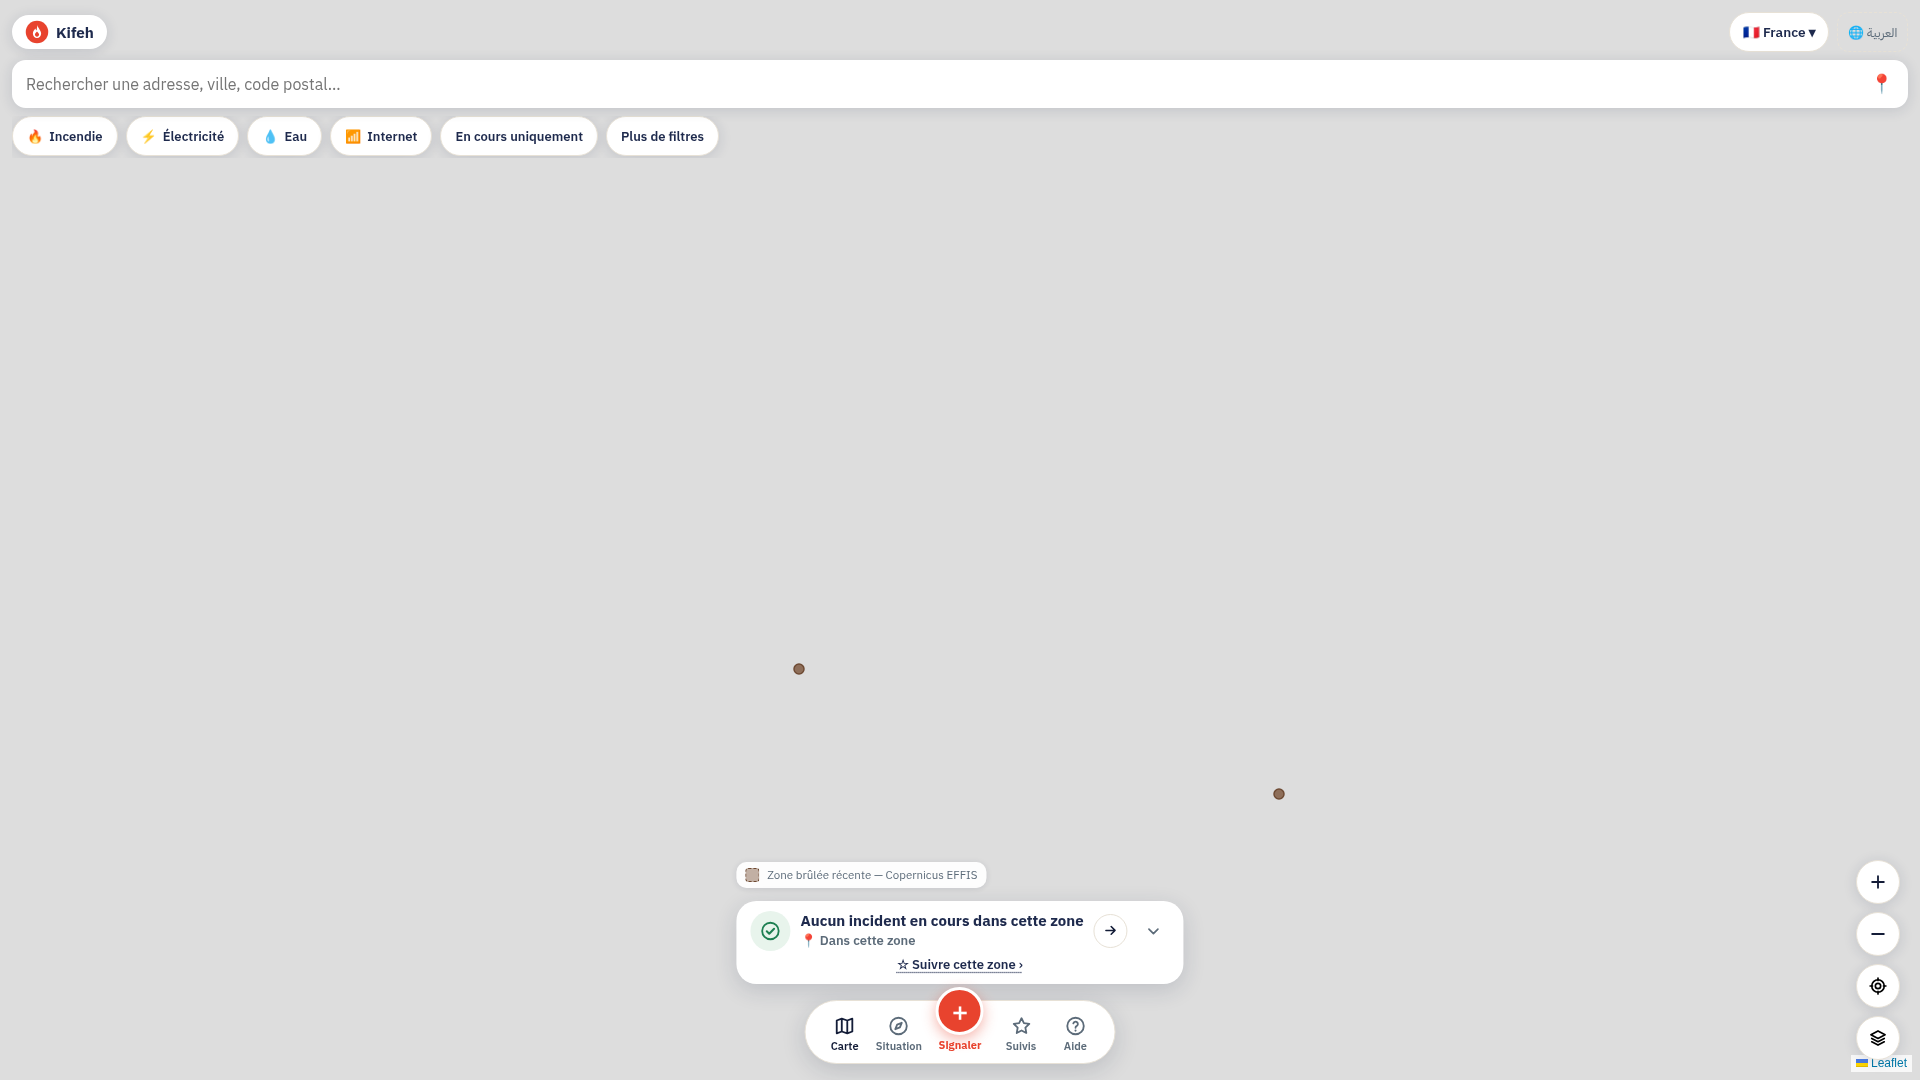
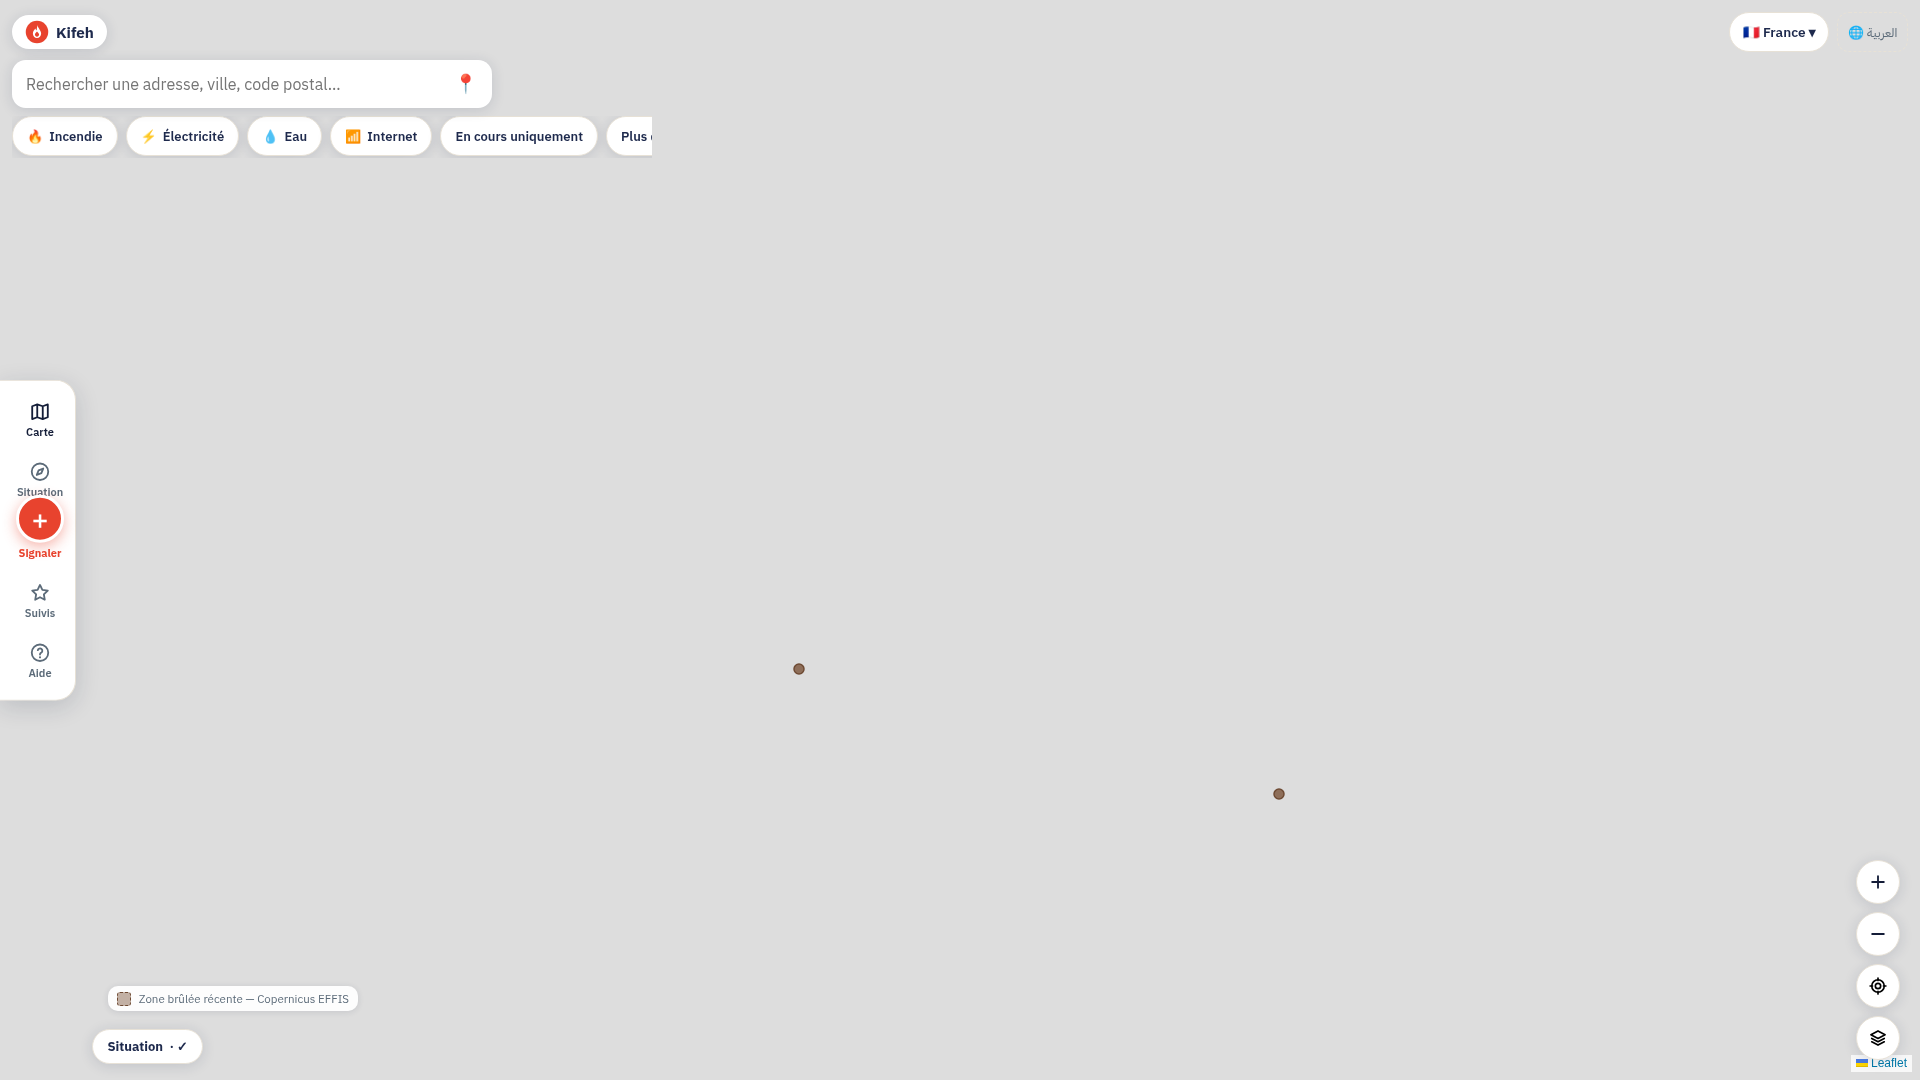
REFONTE PR 2 (#101) — composition desktop ≥1200 px : rail vertical + recherche bornée + héro → puce compacte
Derrière fire_desktop_rail_enabled (coupure à chaud) :
- rail vertical gauche 76 px (droite en RTL) : Carte·Situation·Signaler
  (rouge central)·Suivis·Aide — la pilule basse desktop disparaît ;
- recherche BORNÉE à 480 px (cible master 420-520) ;
- la carte de situation permanente disparaît du desktop → puce compacte
  « Situation · état · fraîcheur » (bas côté rail, clic → panneau),
  alimentée par renderSummary ; légendes déplacées côté rail (zéro
  collision FABs) ;
- mobile/tablette (<1200 px) STRICTEMENT inchangés.
MESURÉ (outil d'audit, mêmes 12 vues) : carte visible 1280 74 %→84 %,
1440 78 %→86 %, 1920 86 %→92 %, RTL symétrique — cible ≥78 % dépassée
partout. features-browser 68/68 ; captures de marque 1280/1440 mises à
jour (raison : PR 2, portée desktop, mobile intact) ; docs/MAP_UX_CURRENT_
AUDIT.md consigne l'avant/après.

Claude-Session: https://claude.ai/code/session_01Xtj68HpNxhqV9w3jxL5u9R

diff --git a/public/css/app.css b/public/css/app.css
@@ -984,3 +984,44 @@ html, body { overscroll-behavior: none; }
 @media (max-width: 1099px) {
   .sheet.pos-half { max-height: 52dvh; }
 }
+
+/* ── REFONTE PR 2 : composition desktop ≥1200 px (drapeau rail-ok) ──────────
+   Rail vertical gauche (droite en RTL), header inchangé mais recherche
+   BORNÉE, carte héro permanente → puce compacte. Mobile/tablette intacts.
+   Rappel gravé : AUCUN enfant position:fixed sous un ancêtre transformé. */
+@media (min-width: 1200px) {
+  body.rail-ok .bottom-nav {
+    left: 0; right: auto; top: 50%; bottom: auto;
+    transform: translateY(-50%);
+    grid-template-columns: 1fr; grid-auto-rows: auto; align-items: center;
+    width: 76px; max-width: 76px; padding: .75rem .375rem;
+    border-radius: 0 var(--kifeh-radius-lg) var(--kifeh-radius-lg) 0;
+    border: 1px solid var(--kifeh-color-border); border-inline-start: none;
+    row-gap: .375rem;
+  }
+  html[dir="rtl"] body.rail-ok .bottom-nav {
+    left: auto; right: 0;
+    border-radius: var(--kifeh-radius-lg) 0 0 var(--kifeh-radius-lg);
+    border-inline-end: none;
+  }
+  body.rail-ok .bottom-nav .nav-item { padding: .5rem .25rem; }
+  /* Recherche bornée : jamais la pleine largeur (cible 420-520 px). */
+  body.rail-ok .home-top .searchbox { max-width: 480px; }
+  body.rail-ok .home-top .chips { max-width: 640px; }
+  /* Le héro permanent disparaît (les LÉGENDES de couches, elles, restent). */
+  body.rail-ok .home-bottom .counter { display: none; }
+  body.rail-ok .home-bottom { bottom: 3.5rem; max-width: 380px; left: 92px; right: auto; transform: none; align-items: flex-start; }
+  html[dir="rtl"] body.rail-ok .home-bottom { left: auto; right: 92px; }
+  /* …remplacé par la puce compacte, au-dessus du rail. */
+  body.rail-ok #situChip {
+    display: inline-flex; align-items: center; gap: .4rem;
+    position: fixed; z-index: 1100;
+    inset-inline-start: 92px; bottom: 1rem;
+    background: var(--kifeh-color-surface); color: var(--kifeh-color-text);
+    border: 1px solid var(--kifeh-color-border); border-radius: var(--kifeh-radius-pill);
+    padding: .5rem .9rem; font-size: var(--kifeh-fs-sm); font-weight: 600;
+    box-shadow: var(--kifeh-shadow); cursor: pointer; font-family: inherit;
+  }
+  /* Le panneau latéral droit reste sous 35 % du viewport (400 px ≤ 1200×.35). */
+}
+.situ-chip { display: none; } /* n'existe visuellement qu'en mode rail ≥1200 px */

diff --git a/public/js/home.js b/public/js/home.js
@@ -44,6 +44,11 @@ let userPos = null;
 let verificationRequired = true;
 API.get('/api/public/config').then((c) => {
   verificationRequired = c.verificationRequired !== false;
+  // Refonte PR 2 : composition desktop (≥1200 px) derrière drapeau serveur.
+  if (c.desktopRail !== false) {
+    document.body.classList.add('rail-ok');
+    document.getElementById('situChip')?.removeAttribute('hidden'); // visible ≥1200 px via CSS
+  }
   if (c.sandbox) showSandboxBanner();
   pushKey = c.pushKey || null; // clé publique VAPID (alertes de zone)
   // Fond de carte configuré côté serveur (fournisseur principal + secours).
@@ -713,6 +718,12 @@ function renderSummary(degraded, snapshotAt) {
   if (w) stats.push({ l: t('stat_wind'), v: `${w.speedKmh} km/h` });
   if (h) stats.push({ l: t('stat_temp'), v: `${h.tempC} °C` });
   if (h?.humidityPct != null) stats.push({ l: t('stat_hum'), v: `${h.humidityPct} %` });
+  // Puce compacte desktop (le héro permanent disparaît en mode rail ≥1200 px).
+  const chip = document.getElementById('situChip');
+  if (chip) {
+    const chipState = heroFire ? '🔥' : (active.length ? `⚠ ${active.length}` : '✓');
+    chip.innerHTML = `<strong>${esc(t('nav_situation'))}</strong> · ${chipState}${satsShown.length ? ` · 🛰 ${satsShown.length}` : ''}${snapshotAt ? ` · <span class="muted">${esc(timeAgo(new Date(snapshotAt).toISOString()))}</span>` : ''}`;
+  }
   let heroCollapsed = false;
   try { heroCollapsed = localStorage.getItem('kifeh_hero_collapsed') === '1'; } catch {}
   counter.classList.toggle('hero-collapsed', heroCollapsed);
@@ -1373,6 +1384,7 @@ function locateMe() {
   );
 }
 document.getElementById('btnLocate').addEventListener('click', locateMe);
+document.getElementById('situChip')?.addEventListener('click', () => document.getElementById('navSituation')?.click());
 document.getElementById('searchLocate')?.addEventListener('click', locateMe);
 
 // « Mon statut de sécurité » depuis l'ACCUEIL : plus besoin d'ouvrir un

diff --git a/src/config.js b/src/config.js
@@ -194,6 +194,8 @@ export const defaultSettings = {
   // activation progressive après validation UI (master prévisions PR 8).
   fire_forecast_enabled_fr: '1',
   fire_forecast_enabled_tn: '1',
+  // Refonte PR 2 : composition desktop (rail + header compact + héro→bouton).
+  fire_desktop_rail_enabled: '1',
   // Vent : modèle Météo-France (AROME/ARPEGE) servi par Open-Meteo — libre,
   // sans clé. Fournisseur configurable (WIND_URL pour les tests/alternatives).
   wind_provider: 'arome_france_hd_openmeteo', // AROME France HD, EXPLICITE (jamais le mode auto),

diff --git a/src/routes/public.js b/src/routes/public.js
@@ -616,6 +616,7 @@ publicRouter.get('/config', (req, res) => {
       { url: getSetting('tile_secondary_url'), attribution: getSetting('tile_secondary_attribution') },
     ].filter((p) => p.url),
     tileFailThreshold: getSettingNum('tile_fail_threshold') || 6,
+    desktopRail: getSetting('fire_desktop_rail_enabled') !== '0',
     // Alertes de zone (Web Push) : clé publique VAPID — la clé privée reste en base.
     pushKey: publicVapidKey(),
     // Multi-pays : profils CLIENT-SÛRS uniquement (jamais de clé, jamais de

diff --git a/public/index.html b/public/index.html
@@ -90,6 +90,10 @@
   </div>
 </div>
 
+<!-- Puce Situation compacte (desktop rail ≥1200 px) : remplace la carte héro
+     permanente — clic → panneau Situation (refonte PR 2). -->
+<button id="situChip" class="situ-chip" type="button" hidden aria-haspopup="dialog"></button>
+
 <div class="home-bottom">
   <div class="wx-legend" id="wxLegend" hidden></div>
   <div class="wx-legend" id="burntLegend" hidden></div>

diff --git a/docs/MAP_UX_CURRENT_AUDIT.md b/docs/MAP_UX_CURRENT_AUDIT.md
@@ -77,6 +77,20 @@ hero_card_toggled. (replay_* arriveront avec PR 6.)
 Aucun : la production du 31/07 correspond au dépôt (déploiements continus le
 jour même, healthz vérifié après chaque push, 37 incidents constants).
 
+## Résultats PR 2 (mesurés le 31/07, même outil — desktop ≥1200 px)
+
+| Vue | Avant | Après PR 2 | Cible |
+|---|---|---|---|
+| fr 1280×800 | 26 % recouverte | **16 %** (84 % visible) | ≥78 % ✓ |
+| fr 1440×900 | 22 % | **14 %** (86 %) | ≥78 % ✓ |
+| fr 1920×1080 | 14 % | **8 %** (92 %) | ≥78 % ✓ |
+| ar 1440×900 | 21 % | **14 %** | miroir ✓ |
+
+Livré derrière `fire_desktop_rail_enabled` (coupure à chaud) : rail vertical
+76 px (Signaler rouge central, miroir RTL), recherche bornée 480 px, carte
+héro permanente → puce compacte « Situation · état · fraîcheur » (clic →
+panneau), légendes déplacées côté rail. Mobile/tablette inchangés (<1200 px).
+
 ## Décision de sortie de PR 1
 
 Aucun changement fonctionnel dans cette PR (conformément au master). Les
